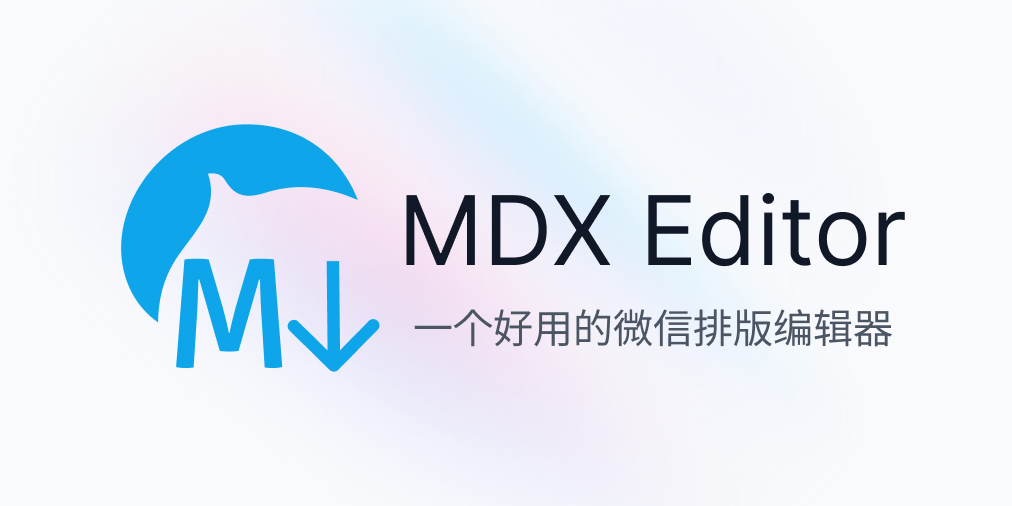
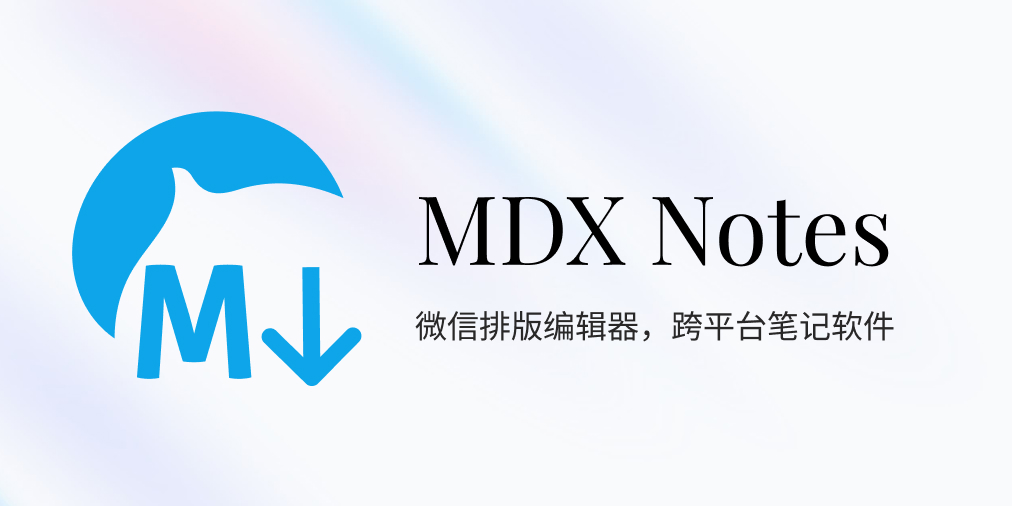
chore: 🤖 rename mdx notes

Changed region(s): [[0.0613, 0.2075, 0.8883, 0.7708], [0.3982, 0.3854, 0.919, 0.5336], [0.5514, 0.3261, 0.582, 0.3557]]

diff --git a/src/components/MoreDropdown.tsx b/src/components/MoreDropdown.tsx
@@ -43,7 +43,7 @@ export default function MoreDropdown({ resultRef }: Props) {
   const handleExportHtml = async () => {
     const { html, css, frontMatter = {} } = resultRef.current
 
-    const title = frontMatter.title || 'MDX Editor'
+    const title = frontMatter.title || 'MDX Notes'
     if (html) {
       const doc = makeDoc(title, html, css)
 
@@ -53,7 +53,7 @@ export default function MoreDropdown({ resultRef }: Props) {
   const handleExport = async () => {
     const { frontMatter = {}, md } = resultRef.current
     if (md) {
-      const title = frontMatter.title || 'MDX Editor'
+      const title = frontMatter.title || 'MDX Notes'
       downloadFile(title + '.md', md)
     }
   }
@@ -70,7 +70,7 @@ export default function MoreDropdown({ resultRef }: Props) {
       </DropdownMenuTrigger>
       <DropdownMenuContent className="print:hidden">
         <DropdownMenuItem
-          onClick={() => openLink('https://editor.runjs.cool/template')}
+          onClick={() => openLink('https://mdxnotes.com/template')}
         >
           {t('Templates')}
         </DropdownMenuItem>

diff --git a/src/pages/_app.tsx b/src/pages/_app.tsx
@@ -7,7 +7,7 @@ const Layout = dynamic(() => import('@/components/Layout'), {
   ssr: false,
 })
 
-const TITLE = ' MDX Editor | 一个微信排版编辑器，使用 MDX 来排版'
+const TITLE = ' MDX Notes | 一个微信排版编辑器，使用 MDX 来排版'
 const DESCRIPTION =
   '微信排版编辑器，使用MDX，可自定义组件、样式、生成二维码、代码 diff 高亮，可导出 markdown 和 PDF'
 const FAVICON_VERSION = 3
@@ -48,8 +48,8 @@ export default function App({ Component, pageProps }) {
           color="#38bdf8"
         />
         <link rel="shortcut icon" href={v('/favicons/favicon.ico')} />
-        <meta name="apple-mobile-web-app-title" content="MDX Editor" />
-        <meta name="application-name" content="MDX Editor" />
+        <meta name="apple-mobile-web-app-title" content="MDX Notes" />
+        <meta name="application-name" content="MDX Notes" />
         <meta name="msapplication-TileColor" content="#38bdf8" />
         <meta
           name="msapplication-config"

diff --git a/src/lib/tauri.ts b/src/lib/tauri.ts
@@ -51,16 +51,16 @@ export const createDefaultDirPath = async (dirPath: string) => {
 
   if (!res) {
     const documentDirPath = await documentDir()
-    const path = await resolve(documentDirPath, 'mdx-editor')
+    const path = await resolve(documentDirPath, 'mdx-notes')
 
     if (!(await exists(path))) {
-      await mkdir('mdx-editor', {
+      await mkdir('mdx-notes', {
         baseDir: BaseDirectory.Document,
       })
-      await mkdir('mdx-editor/plugins', {
+      await mkdir('mdx-notes/plugins', {
         baseDir: BaseDirectory.Document,
       })
-      await mkdir('mdx-editor/plugins/themes', {
+      await mkdir('mdx-notes/plugins/themes', {
         baseDir: BaseDirectory.Document,
       })
 

diff --git a/src/components/Logo.js b/src/components/Logo.js
@@ -14,7 +14,7 @@ export function Logo({ className }) {
         <path d="M342.042 109.872C296.373 89.674 252.575 85.424 209.174 99.063C183.993 106.934 165.866 106.363 151.257 82.639C147.474 76.445 142.019 69.537 125.518 71.707C143.914 126.444 101.73 158.434 77.189 198.545C61.1 224.789 53.767 254.535 53.609 286.445C7.98787 255.073 -10.5376 194.642 6.34687 135.903C27.5696 61.333 97.139 4.60479 171.867 0.777892C249.142 -3.09461 313.203 36.73 342.042 109.872Z" />
       </svg>
 
-      <span className="text-xl font-medium">MDX Editor</span>
+      <span className="text-xl font-medium">MDX Notes</span>
     </Link>
   )
 }

diff --git a/src/components/Hero.jsx b/src/components/Hero.jsx
@@ -185,7 +185,7 @@ export default function Hero({ children }) {
         {children}
         <div className="terminal bg-slate-800  dark:bg-slate-900/70 dark:backdrop-blur dark:ring-1 dark:ring-inset dark:ring-white/10">
           <div className="text-sm opacity-50 text-center text-white border-b border-slate-500/30 leading-relaxed pb-2 -mx-2">
-            MDX Editor
+            MDX Notes
           </div>
           <pre style={{ background: 'none' }} className="language-markdown">
             <code className="language-markdown" ref={ref}></code>

diff --git a/src/hooks/compileMdx.js b/src/hooks/compileMdx.js
@@ -118,8 +118,8 @@ export const compileMdx = async (
     html = ReactDOMServer.renderToStaticMarkup(
       <Context.Provider value={{ isMac, codeTheme }}>
         <section
-          data-tool="mdx editor"
-          data-website="https://editor.runjs.cool/"
+          data-tool="MDX Notes"
+          data-website="https://mdxnotes.com/"
           className={codeTheme}
         >
           <Content components={{ ...MDXComponents, ...RootComponents }} />

diff --git a/src/utils/initial/index.js b/src/utils/initial/index.js
@@ -5,8 +5,8 @@ import js from '!!raw-loader!./custom.js'
 import css from '!!raw-loader!./custom.css'
 
 export default {
-  'MDX Editor 介绍.md': defaultContent,
-  'Introduction to MDX Editor.md': defaultENContent,
+  'MDX Notes 介绍.md': defaultContent,
+  'Introduction to MDX Notes.md': defaultENContent,
   'PPT.md': PPT,
   'plugins/themes/custom.js': js,
   'plugins/themes/custom.css': css,

diff --git a/src/components/Share.js b/src/components/Share.js
@@ -5,7 +5,7 @@ import { Button } from '@/components/ui/button'
 import { ShareIcon, LinkIcon, Loader2 } from 'lucide-react'
 import { useTranslation } from 'react-i18next'
 
-const HOSTNAME = 'https://editor.runjs.cool'
+const HOSTNAME = 'https://mdxnotes.com'
 
 export function Share({ resultRef, layout, responsiveSize }) {
   const { t } = useTranslation()

diff --git a/src-tauri/src/tray.rs b/src-tauri/src/tray.rs
@@ -24,7 +24,7 @@ fn generate_random_string(length: usize) -> String {
 fn create_window<R: Runtime>(app: &tauri::AppHandle<R>, label: String, path: String) {
     // 创建新的 webview 窗口
     let builder = tauri::WebviewWindowBuilder::new(app, label, tauri::WebviewUrl::App(path.into()))
-        .title("MDX editor")
+        .title("MDX Notes")
         .inner_size(1200.0, 780.0)
         .center()
         .resizable(true)
@@ -81,7 +81,7 @@ pub fn create_tray<R: Runtime>(app: &tauri::AppHandle<R>) -> tauri::Result<()> {
             "quit" => app.exit(0),
             _ => {}
         })
-        .tooltip("MDX editor")
+        .tooltip("MDX Notes")
         .icon(if cfg!(target_os = "macos") {
             Image::from_bytes(include_bytes!("../icons/appleTrayIcon.png"))
         } else {

diff --git a/README.md b/README.md
@@ -1,21 +1,21 @@
-<h4 align="right"><strong>English</strong> | <a href="https://github.com/maqi1520/mdx-editor/blob/tauri-app/README_CN.md">简体中文</a></h4>
+<h4 align="right"><strong>English</strong> | <a href="https://github.com/maqi1520/mdx-notes/blob/tauri-app/README_CN.md">简体中文</a></h4>
 
 <div align="center">
-<a href="https://editor.runjs.cool/">
+<a href="https://mdxnotes.com/">
 <img width="500" src="./public/social-card.jpg"/>
 </a>
 </div>
-<div align="center"> <a href="https://github.com/maqi1520/mdx-editor/actions">
-    <img src="https://github.com/maqi1520/mdx-editor/actions/workflows/release.yml/badge.svg" alt="">
+<div align="center"> <a href="https://github.com/maqi1520/mdx-notes/actions">
+    <img src="https://github.com/maqi1520/mdx-notes/actions/workflows/release.yml/badge.svg" alt="">
   </a>
-  <a href="https://github.com/maqi1520/mdx-editor/releases">
-    <img src="https://img.shields.io/github/downloads/maqi1520/mdx-editor/total.svg" alt="">
+  <a href="https://github.com/maqi1520/mdx-notes/releases">
+    <img src="https://img.shields.io/github/downloads/maqi1520/mdx-notes/total.svg" alt="">
   </a>
-  <a href="https://github.com/maqi1520/mdx-editor/releases/latest">
-    <img src="https://img.shields.io/github/release/maqi1520/mdx-editor.svg" alt="">
+  <a href="https://github.com/maqi1520/mdx-notes/releases/latest">
+    <img src="https://img.shields.io/github/release/maqi1520/mdx-notes.svg" alt="">
   </a>
 </div>
-<h1 align="center">MDX Editor</h1>
+<h1 align="center">MDX Notes</h1>
 
 > A versatile WeChat typesetting editor, also serving as a cross-platform Markdown note-taking software.
 
@@ -53,24 +53,24 @@ In addition to the web version's features, the desktop version includes:
     <td><img src="https://user-images.githubusercontent.com/9312044/262275149-3310abc1-5a6d-45cb-aa9a-3359381ec429.png"/></td>
 </tr> 
 <tr>
-    <td><a href="https://editor.runjs.cool/64b51328337a9f4db79fe677" >Subtle Green Card</a></td>
-    <td><a href="https://editor.runjs.cool/64c0fca121821b2af589cf6e">Early Summer Style</a></td>
+    <td><a href="https://mdxnotes.com/64b51328337a9f4db79fe677" >Subtle Green Card</a></td>
+    <td><a href="https://mdxnotes.com/64c0fca121821b2af589cf6e">Early Summer Style</a></td>
 </tr> 
 <tr>
   <td><img src="https://user-images.githubusercontent.com/9312044/262275160-41c30692-b554-4da6-bcc7-3fb00169ed5d.png"/></td>
   <td><img src="https://user-images.githubusercontent.com/9312044/262275117-fdf35fe4-0b70-45ad-995d-b6622586c6d8.png"/></td>
 </tr>
 <tr>
-  <td><a href="https://editor.runjs.cool/624688ccb6fe2900015728ac">Resume Template</a></td>
-  <td><a href="https://editor.runjs.cool/625550658cc5730001809f0c">Exquisite Code Diff Highlights</a></td>
+  <td><a href="https://mdxnotes.com/624688ccb6fe2900015728ac">Resume Template</a></td>
+  <td><a href="https://mdxnotes.com/625550658cc5730001809f0c">Exquisite Code Diff Highlights</a></td>
 </tr>
 <tr>
     <td><img src="https://user-images.githubusercontent.com/9312044/262275165-766ff817-7c09-4288-b8dd-55d7424c2fd6.png"/></td>
     <td><img src="https://user-images.githubusercontent.com/9312044/262275168-6dd4b05c-a604-4ab1-abe3-b2d2dc759d8e.png"/></td>
 </tr> 
 <tr>
-    <td><a href="https://editor.runjs.cool/6492ae0109e298c79055dfab">Generate Captivating QR Codes</a></td>
-    <td><a href="https://editor.runjs.cool/6492aa37f5cf3a54f14493a8">Travel Itinerary</a></td>
+    <td><a href="https://mdxnotes.com/6492ae0109e298c79055dfab">Generate Captivating QR Codes</a></td>
+    <td><a href="https://mdxnotes.com/6492aa37f5cf3a54f14493a8">Travel Itinerary</a></td>
 </tr> 
 </table>
 
@@ -94,7 +94,7 @@ yarn tauri dev
 
 ### 1. After installing on macOS, it shows "The file is damaged" or there is no response when opening it
 
-Because MDX Editor is not signed, it is blocked by macOS security checks.
+Because MDX Notes is not signed, it is blocked by macOS security checks.
 
 If you encounter the "The file is damaged" error after installation, follow these steps:
 
@@ -104,7 +104,7 @@ Trust the developer, and it will prompt you to enter your password:
 sudo spctl --master-disable
 ```
 
-Then allow MDX Editor:
+Then allow MDX Notes:
 
 ```bash
 xattr -cr /Applications/MDX\ Editor.app

diff --git a/src/utils/initial/default.md b/src/utils/initial/default.md
@@ -68,4 +68,4 @@ function Chart({ data = [], color }) {
 />
 ```
 
-感谢你的阅读和使用，若遇到问题，可以在 [Github](https://github.com/maqi1520/mdx-editor) 提 issues，也可以关注微信公众号 “JS 酷”留言反馈，希望更够帮助到您。
+感谢你的阅读和使用，若遇到问题，可以在 [Github](https://github.com/maqi1520/mdx-notes) 提 issues，也可以关注微信公众号 “JS 酷”留言反馈，希望更够帮助到您。
